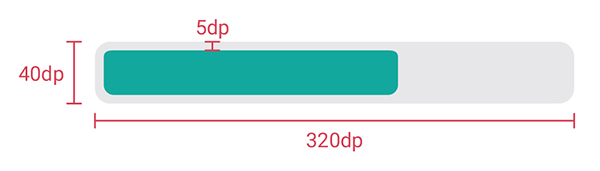
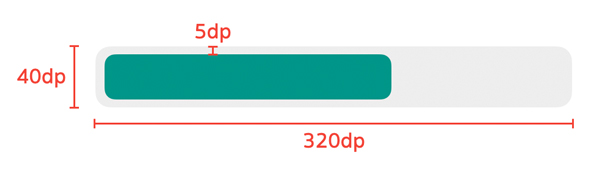
Re-illustrated the image in README

Changed region(s): [[0.03, 0.117, 0.96, 0.6433], [0.15, 0.6725, 0.96, 0.7602], [0.51, 0.7602, 0.63, 0.8772]]

diff --git a/README.md b/README.md
@@ -17,12 +17,12 @@ What's new in version 2.0
 
 Demo
 ===========================
-[Round Corner Progress Bar Demo (Google Play)](https://play.google.com/store/apps/details?id=com.akexorcist.roundcornerprogressbar)
+[![Round Corner Progress Bar Demo (Google Play)](https://play.google.com/intl/en_us/badges/images/badge_new.png)](https://play.google.com/store/apps/details?id=com.akexorcist.roundcornerprogressbar)
 
-[![get it on google play](https://play.google.com/intl/en_us/badges/images/badge_new.png)](https://play.google.com/store/apps/details?id=com.akexorcist.roundcornerprogressbar)
-
-Round Corner Progress Bar
+Progress Bar Type
 ===============================
+Round Corner Progress Bar
+-------------------------------
 
 A simple round corner progress bar that can change a color of progress and background and a corner radius in dp unit (Very Recommended)
 
@@ -30,12 +30,11 @@ A simple round corner progress bar that can change a color of progress and backg
 
 
 Icon Round Corner Progress Bar
-===============================
+-------------------------------
 
 A round corner progress bar with a changeable icon on the left of progress bar
 
 ![Icon Round Corner Progress Bar Sample](https://raw.githubusercontent.com/akexorcist/Android-RoundCornerProgressBar/master/image/screenshot_01.png)
-
 
 
 Installation
@@ -74,6 +73,8 @@ xmlns:app="http://schemas.android.com/apk/res-auto"
 
 Include this progress bar library in your layout
 
+RoundCornerProgressBar
+-------------------------------'
 ```xml
 <com.akexorcist.roundcornerprogressbar.RoundCornerProgressBar
         android:layout_width="dimension"
@@ -91,9 +92,9 @@ Include this progress bar library in your layout
 
 ![Round Corner Progress Bar Usage](https://raw.githubusercontent.com/akexorcist/Android-RoundCornerProgressBar/master/image/usage_01.jpg)
 
-![Round Corner Progress Bar Usage](https://raw.githubusercontent.com/akexorcist/Android-RoundCornerProgressBar/master/image/usage_06.jpg)
 
-
+IconRoundCornerProgressBar
+-------------------------------'
 ```xml
 <com.akexorcist.roundcornerprogressbar.IconRoundCornerProgressBar
         android:layout_width="dimension"
@@ -125,10 +126,11 @@ Include this progress bar library in your layout
 
 ![Icon Round Corner Progress Bar Usage](https://raw.githubusercontent.com/akexorcist/Android-RoundCornerProgressBar/master/image/usage_04.jpg)
 
+Reversing
+-------------------------------'
 ![Icon Round Corner Progress Bar Usage](https://raw.githubusercontent.com/akexorcist/Android-RoundCornerProgressBar/master/image/usage_05.jpg)
 
-
-**Recommended how to set progress bar height**
+**Recommendation to set progress bar height**
 * ```android:layout_height``` for RoundCornerProgressBar height 
 * ```android:iconSize``` for IconRoundCornerProgressBar height
 
@@ -193,27 +195,17 @@ void setOnIconClickListener(OnIconClickListener listener)
 Example
 ===========================
 ```xml
-<LinearLayout xmlns:android="http://schemas.android.com/apk/res/android"
-    xmlns:app="http://schemas.android.com/apk/res-auto"
-    android:layout_height="match_parent" 
-    android:layout_width="match_parent"
-    android:orientation="vertical" >
+<com.akexorcist.roundcornerprogressbar.RoundCornerProgressBar
+    android:layout_width="320dp" 
+    android:layout_height="40dp" 
+    app:rcBackgroundPadding="5dp" />
 
-    <com.akexorcist.roundcornerprogressbar.RoundCornerProgressBar
-        android:id="@+id/progress_1"
-        android:layout_height="320dp" 
-        android:layout_width="40dp" 
-        app:rcBackgroundPadding="5dp" />
-
-    <com.akexorcist.roundcornerprogressbar.IconRoundCornerProgressBar
-        android:id="@+id/progress_2"
-        android:layout_height="320dp" 
-        android:layout_width="wrap_content"
-        app:rcBackgroundPadding="10dp"
-        app:rcIconSize="50dp" 
-        app:rcIconPadding="5dp" />
-
-</LinearLayout>
+<com.akexorcist.roundcornerprogressbar.IconRoundCornerProgressBar
+    android:layout_width="320dp" 
+    android:layout_height="wrap_content"
+    app:rcBackgroundPadding="10dp"
+    app:rcIconSize="50dp" 
+    app:rcIconPadding="5dp" />
 ```
 ![Icon Round Corner Progress Bar Usage](https://raw.githubusercontent.com/akexorcist/Android-RoundCornerProgressBar/master/image/example_01.jpg)
 
@@ -284,10 +276,9 @@ int getTextProgressMargin()
 void setTextProgressMargin(int margin)
 ``` 
 
-
 Licence
 ===========================
-Copyright 2015 Akexorcist
+Copyright 2020 Akexorcist
 
 Licensed under the Apache License, Version 2.0 (the "License"); you may not use this work except in compliance with the License. You may obtain a copy of the License in the LICENSE file, or at:
 
